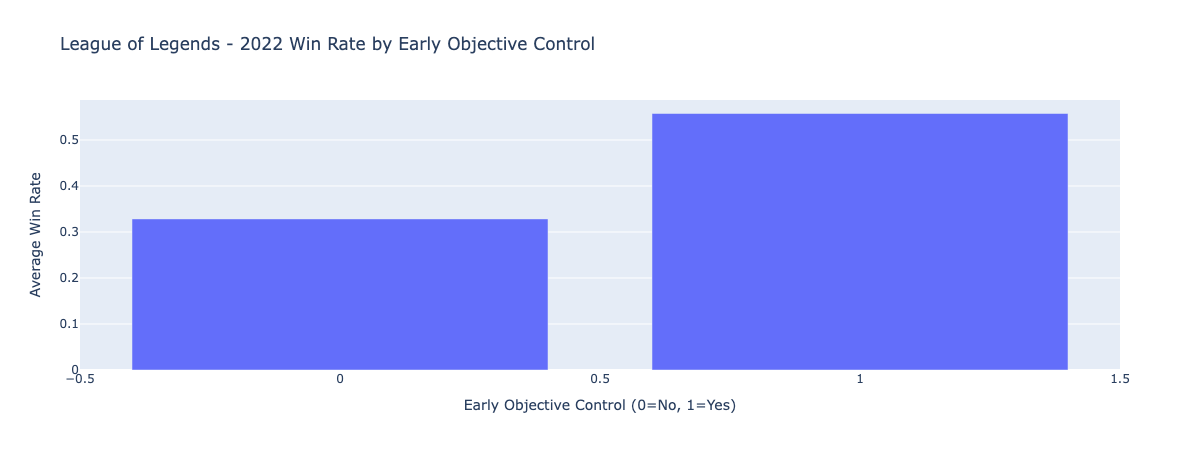
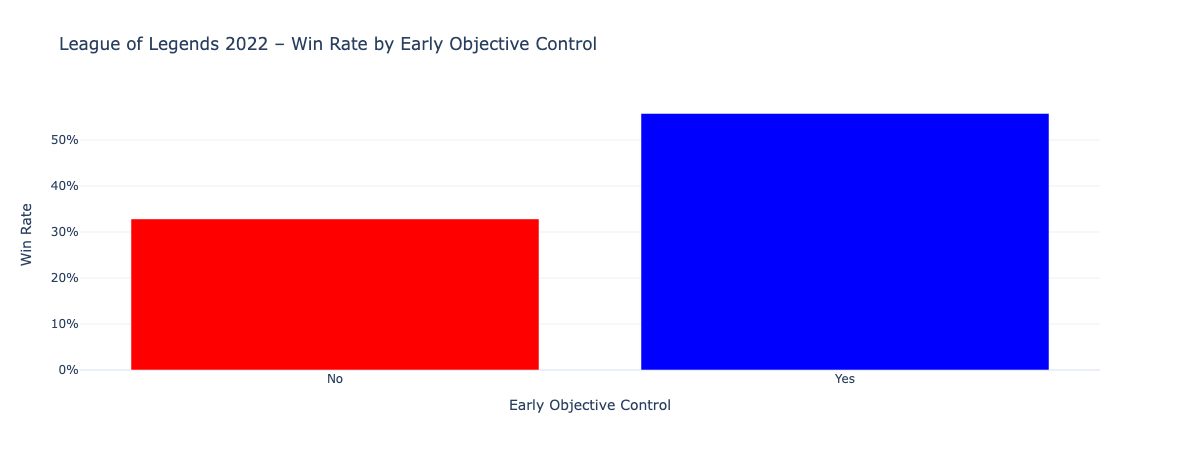
Add EDA content, plots, and notebook updates
Expand README with detailed data cleaning, univariate/bivariate/grouped analysis and embedded visualizations for early objective control. Add several plot images (win_distribution, comparisonofwinrate, distr_obj_control, firstbloodwinrate) and update earlyobjcntrlbar.png. Update template.ipynb to normalize execution counts, tidy outputs/formatting, and add cells to generate markdown snippets for the website. These changes surface analysis results and visuals for documentation and site generation.

diff --git a/README.md b/README.md
@@ -22,7 +22,102 @@ The dataset contains **24,830 team-level observations**, where each row represen
 > - **`killsat10`** — Kills secured at 10 minutes.  
 > - **`side`** — Blue or Red side.
 
-<h2>Data Cleaning and Exploratory Data Analysis</h2>
+## Data Cleaning and Exploratory Data Analysis
+
+### Data Cleaning
+
+The original League of Legends dataset contains match statistics recorded across professional competitions. Each match contains multiple rows corresponding to different entities, including both teams and individual players. Since the goal of this project is to analyze how early-game events affect **match outcomes at the team level**, the dataset was filtered so that each row represents **one team in a single match**.
+
+First, the dataset was filtered to retain only **team-level rows**, removing player-level observations that were not relevant to predicting match outcomes. This ensures that each row corresponds to a team’s performance within a single match.
+
+Next, the response variable **`result`** was converted into a binary classification variable where:
+
+- `1` represents a win  
+- `0` represents a loss  
+
+This conversion allows the dataset to be used directly for classification modeling and hypothesis testing.
+
+An engineered feature called **`early_objective_control`** was created to capture whether a team secured at least one early neutral objective. This variable combines early objective events (such as first dragon, herald, or tower) into a single binary indicator. This feature was created to represent early **macro-level advantages** rather than isolated events.
+
+Some columns contained missing values, particularly **`golddiffat10`** and **`killsat10`**, which represent early-game economic and combat advantages. These missing values were handled using **median imputation**, which preserves the overall distribution of the data while allowing models that cannot handle missing values to train properly.
+
+Additionally, certain columns related to game mechanics that were introduced in later patches (such as **void grubs**) were excluded from analysis. Their missingness was tied to the data generating process rather than random absence, since these objectives were not part of the game during the 2022 season.
+
+After cleaning and feature engineering, the dataset contains **24,830 rows**, where each row represents a team’s perspective in a single professional match.
+
+---
+
+### Head of the Cleaned Dataset
+
+The following table shows the first few rows of the cleaned dataset used in the analysis.
+
+| gameid                | datacompleteness   | url                                         | league   |   year | split   |   playoffs | date                |   game |   patch |   participantid | side   | position   |   playername |   playerid | teamname                 | teamid                                  |   firstPick |   champion | ban1     | ban2         | ban3         | ban4     | ban5    | pick1    | pick2     | pick3    | pick4   | pick5     |   gamelength |   result |   kills |   deaths |   assists |   teamkills |   teamdeaths |   doublekills |   triplekills |   quadrakills |   pentakills |   firstblood |   firstbloodkill |   firstbloodassist |   firstbloodvictim |   team kpm |   ckpm |   firstdragon |   dragons |   opp_dragons |   elementaldrakes |   opp_elementaldrakes |   infernals |   mountains |   clouds |   oceans |   chemtechs |   hextechs |   dragons (type unknown) |   elders |   opp_elders |   firstherald |   heralds |   opp_heralds |   void_grubs |   opp_void_grubs |   firstbaron |   barons |   opp_barons |   atakhans |   opp_atakhans |   firsttower |   towers |   opp_towers |   firstmidtower |   firsttothreetowers |   turretplates |   opp_turretplates |   inhibitors |   opp_inhibitors |   damagetochampions |     dpm |   damageshare |   damagetakenperminute |   damagemitigatedperminute |   damagetotowers |   wardsplaced |    wpm |   wardskilled |   wcpm |   controlwardsbought |   visionscore |   vspm |   totalgold |   earnedgold |   earned gpm |   earnedgoldshare |   goldspent |        gspd |    gpr |   total cs |   minionkills |   monsterkills |   monsterkillsownjungle |   monsterkillsenemyjungle |     cspm |   goldat10 |   xpat10 |   csat10 |   opp_goldat10 |   opp_xpat10 |   opp_csat10 |   golddiffat10 |   xpdiffat10 |   csdiffat10 |   killsat10 |   assistsat10 |   deathsat10 |   opp_killsat10 |   opp_assistsat10 |   opp_deathsat10 |   goldat15 |   xpat15 |   csat15 |   opp_goldat15 |   opp_xpat15 |   opp_csat15 |   golddiffat15 |   xpdiffat15 |   csdiffat15 |   killsat15 |   assistsat15 |   deathsat15 |   opp_killsat15 |   opp_assistsat15 |   opp_deathsat15 |   goldat20 |   xpat20 |   csat20 |   opp_goldat20 |   opp_xpat20 |   opp_csat20 |   golddiffat20 |   xpdiffat20 |   csdiffat20 |   killsat20 |   assistsat20 |   deathsat20 |   opp_killsat20 |   opp_assistsat20 |   opp_deathsat20 |   goldat25 |   xpat25 |   csat25 |   opp_goldat25 |   opp_xpat25 |   opp_csat25 |   golddiffat25 |   xpdiffat25 |   csdiffat25 |   killsat25 |   assistsat25 |   deathsat25 |   opp_killsat25 |   opp_assistsat25 |   opp_deathsat25 |   early_objective_control | result_label   | objective_label   |
+|:----------------------|:-------------------|:--------------------------------------------|:---------|-------:|:--------|-----------:|:--------------------|-------:|--------:|----------------:|:-------|:-----------|-------------:|-----------:|:-------------------------|:----------------------------------------|------------:|-----------:|:---------|:-------------|:-------------|:---------|:--------|:---------|:----------|:---------|:--------|:----------|-------------:|---------:|--------:|---------:|----------:|------------:|-------------:|--------------:|--------------:|--------------:|-------------:|-------------:|-----------------:|-------------------:|-------------------:|-----------:|-------:|--------------:|----------:|--------------:|------------------:|----------------------:|------------:|------------:|---------:|---------:|------------:|-----------:|-------------------------:|---------:|-------------:|--------------:|----------:|--------------:|-------------:|-----------------:|-------------:|---------:|-------------:|-----------:|---------------:|-------------:|---------:|-------------:|----------------:|---------------------:|---------------:|-------------------:|-------------:|-----------------:|--------------------:|--------:|--------------:|-----------------------:|---------------------------:|-----------------:|--------------:|-------:|--------------:|-------:|---------------------:|--------------:|-------:|------------:|-------------:|-------------:|------------------:|------------:|------------:|-------:|-----------:|--------------:|---------------:|------------------------:|--------------------------:|---------:|-----------:|---------:|---------:|---------------:|-------------:|-------------:|---------------:|-------------:|-------------:|------------:|--------------:|-------------:|----------------:|------------------:|-----------------:|-----------:|---------:|---------:|---------------:|-------------:|-------------:|---------------:|-------------:|-------------:|------------:|--------------:|-------------:|----------------:|------------------:|-----------------:|-----------:|---------:|---------:|---------------:|-------------:|-------------:|---------------:|-------------:|-------------:|------------:|--------------:|-------------:|----------------:|------------------:|-----------------:|-----------:|---------:|---------:|---------------:|-------------:|-------------:|---------------:|-------------:|-------------:|------------:|--------------:|-------------:|----------------:|------------------:|-----------------:|--------------------------:|:---------------|:------------------|
+| ESPORTSTMNT01_2690210 | complete           | nan                                         | LCKC     |   2022 | Spring  |          0 | 2022-01-10 07:44:08 |      1 |   12.01 |             100 | Blue   | team       |          nan |        nan | HANJIN BRION Challengers | oe:team:fa3d687a87bcae80362f784a7da571d |           1 |        nan | Karma    | Caitlyn      | Syndra       | Thresh   | Lulu    | Renekton | Samira    | Xin Zhao | LeBlanc | Leona     |         1713 |        0 |       9 |       19 |        19 |           9 |           19 |             0 |             0 |             0 |            0 |            1 |              nan |                nan |                nan |     0.3152 | 0.9807 |             0 |         1 |             3 |                 1 |                     3 |           0 |           0 |        0 |        0 |           0 |          1 |                      nan |        0 |            0 |             1 |         2 |             0 |          nan |              nan |            0 |        0 |            0 |        nan |            nan |            1 |        3 |            6 |               1 |                    1 |              5 |                  0 |            0 |                1 |               56560 | 1981.09 |           nan |                3537.2  |                    2364.73 |             6168 |            74 | 2.5919 |            51 | 1.7863 |                   33 |           197 | 6.9002 |       47070 |        28222 |      988.511 |               nan |       44570 | -0.0283123  |   0.94 |        nan |           680 |            160 |                     nan |                       nan |  29.4221 |      16218 |    18213 |      322 |          14695 |        18076 |          330 |           1523 |          137 |           -8 |           3 |             5 |            0 |               0 |                 0 |                3 |      24806 |    28001 |      487 |          24699 |        29618 |          510 |            107 |        -1617 |          -23 |           5 |            10 |            6 |               6 |                18 |                5 |      31962 |    36874 |      631 |          32906 |        41821 |          715 |           -944 |        -4947 |          -84 |           5 |            10 |            7 |               7 |                22 |                5 |      40224 |    45960 |      767 |          40136 |        49931 |          864 |             88 |        -3971 |          -97 |           6 |            12 |            7 |               7 |                22 |                6 |                         1 | Loss           | Yes               |
+| ESPORTSTMNT01_2690210 | complete           | nan                                         | LCKC     |   2022 | Spring  |          0 | 2022-01-10 07:44:08 |      1 |   12.01 |             200 | Red    | team       |          nan |        nan | Nongshim Esports Academy | oe:team:7c64febcd5ccff13dcd035dc6867a00 |           0 |        nan | Lee Sin  | Twisted Fate | Zoe          | Nautilus | Rell    | Jinx     | Viego     | Gragas   | Viktor  | Alistar   |         1713 |        1 |      19 |        9 |        62 |          19 |            9 |             6 |             0 |             0 |            0 |            0 |              nan |                nan |                nan |     0.6655 | 0.9807 |             1 |         3 |             1 |                 3 |                     1 |           2 |           1 |        0 |        0 |           0 |          0 |                      nan |        0 |            0 |             0 |         0 |             2 |          nan |              nan |            0 |        0 |            0 |        nan |            nan |            0 |        6 |            3 |               0 |                    0 |              0 |                  5 |            1 |                0 |               79912 | 2799.02 |           nan |                3009.67 |                    2872.33 |            13846 |            93 | 3.2574 |            51 | 1.7863 |                   45 |           205 | 7.1804 |       52617 |        33769 |     1182.8   |               nan |       45850 |  0.0283123  |  -0.94 |        nan |           792 |            184 |                     nan |                       nan |  34.1856 |      14695 |    18076 |      330 |          16218 |        18213 |          322 |          -1523 |         -137 |            8 |           0 |             0 |            3 |               3 |                 5 |                0 |      24699 |    29618 |      510 |          24806 |        28001 |          487 |           -107 |         1617 |           23 |           6 |            18 |            5 |               5 |                10 |                6 |      32906 |    41821 |      715 |          31962 |        36874 |          631 |            944 |         4947 |           84 |           7 |            22 |            5 |               5 |                10 |                7 |      40136 |    49931 |      864 |          40224 |        45960 |          767 |            -88 |         3971 |           97 |           7 |            22 |            6 |               6 |                12 |                7 |                         1 | Win            | Yes               |
+| ESPORTSTMNT01_2690219 | complete           | nan                                         | LCKC     |   2022 | Spring  |          0 | 2022-01-10 08:38:24 |      1 |   12.01 |             100 | Blue   | team       |          nan |        nan | T1 Esports Academy       | oe:team:731b7a9fd004cdbe2bcb3da795bce47 |           1 |        nan | Sona     | Jarvan IV    | Caitlyn      | Lulu     | Lucian  | Lee Sin  | Jhin      | Gragas   | Rakan   | Orianna   |         2114 |        0 |       3 |       16 |         7 |           3 |           16 |             0 |             0 |             0 |            0 |            0 |              nan |                nan |                nan |     0.0851 | 0.5393 |             0 |         1 |             4 |                 1 |                     4 |           0 |           1 |        0 |        0 |           0 |          0 |                      nan |        0 |            0 |             1 |         1 |             1 |          nan |              nan |            0 |        0 |            2 |        nan |            nan |            0 |        3 |           11 |               0 |                    0 |              2 |                  3 |            0 |                2 |               59579 | 1690.98 |           nan |                2984.02 |                    3109.61 |             6842 |           119 | 3.3775 |            55 | 1.561  |                   47 |           277 | 7.8619 |       57629 |        34688 |      984.522 |               nan |       53945 | -0.207137   |  -3.23 |        nan |           994 |            215 |                     nan |                       nan |  34.3141 |      14939 |    17462 |      317 |          16558 |        19048 |          344 |          -1619 |        -1586 |          -27 |           1 |             1 |            3 |               3 |                 3 |                1 |      23522 |    28848 |      533 |          25285 |        29754 |          555 |          -1763 |         -906 |          -22 |           1 |             1 |            3 |               3 |                 3 |                1 |      31228 |    38596 |      710 |          36368 |        42069 |          758 |          -5140 |        -3473 |          -48 |           1 |             1 |            5 |               5 |                 6 |                1 |      39335 |    49409 |      895 |          46615 |        57155 |          928 |          -7280 |        -7746 |          -33 |           1 |             1 |            8 |               8 |                13 |                1 |                         1 | Loss           | Yes               |
+| ESPORTSTMNT01_2690219 | complete           | nan                                         | LCKC     |   2022 | Spring  |          0 | 2022-01-10 08:38:24 |      1 |   12.01 |             200 | Red    | team       |          nan |        nan | Liiv SANDBOX Youth       | oe:team:e7a7c6bf58eb268ed3f13aac4158aa8 |           0 |        nan | LeBlanc  | Yuumi        | Twisted Fate | Karma    | Alistar | Renekton | Syndra    | Nidalee  | Leona   | Gangplank |         2114 |        1 |      16 |        3 |        39 |          16 |            3 |             1 |             0 |             0 |            0 |            1 |              nan |                nan |                nan |     0.4541 | 0.5393 |             1 |         4 |             1 |                 4 |                     1 |           0 |           2 |        1 |        0 |           0 |          1 |                      nan |        0 |            0 |             0 |         1 |             1 |          nan |              nan |            1 |        2 |            0 |        nan |            nan |            1 |       11 |            3 |               1 |                    1 |              3 |                  2 |            2 |                0 |               74855 | 2124.55 |           nan |                2745.72 |                    2868.42 |            19944 |           129 | 3.6613 |            70 | 1.9868 |                   65 |           346 | 9.8202 |       71004 |        48063 |     1364.13  |               nan |       66410 |  0.207137   |   3.23 |        nan |          1013 |            244 |                     nan |                       nan |  35.6764 |      16558 |    19048 |      344 |          14939 |        17462 |          317 |           1619 |         1586 |           27 |           3 |             3 |            1 |               1 |                 1 |                3 |      25285 |    29754 |      555 |          23522 |        28848 |          533 |           1763 |          906 |           22 |           3 |             3 |            1 |               1 |                 1 |                3 |      36368 |    42069 |      758 |          31228 |        38596 |          710 |           5140 |         3473 |           48 |           5 |             6 |            1 |               1 |                 1 |                5 |      46615 |    57155 |      928 |          39335 |        49409 |          895 |           7280 |         7746 |           33 |           8 |            13 |            1 |               1 |                 1 |                8 |                         1 | Win            | Yes               |
+| 8401-8401_game_1      | partial            | https://lpl.qq.com/es/stats.shtml?bmid=8401 | LPL      |   2022 | Spring  |          0 | 2022-01-10 09:24:26 |      1 |   12.01 |             100 | Blue   | team       |          nan |        nan | Oh My God                | oe:team:f4c4528c6981e104a11ea7548630c23 |           1 |        nan | Renekton | Lee Sin      | Caitlyn      | Jayce    | Camille | Jinx     | Jarvan IV | Nautilus | Syndra  | Gwen      |         1365 |        1 |      13 |        6 |        35 |          13 |            6 |           nan |           nan |           nan |          nan |            0 |              nan |                nan |                nan |     0.5714 | 0.8352 |             0 |         2 |             1 |               nan |                   nan |         nan |         nan |      nan |      nan |         nan |        nan |                        2 |      nan |          nan |             0 |         2 |             0 |            0 |                0 |          nan |        1 |            0 |        nan |            nan |            1 |        8 |            3 |             nan |                  nan |            nan |                nan |            1 |                0 |               40086 | 1762.02 |           nan |                2263.25 |                     nan    |              nan |            79 | 3.4725 |            33 | 1.4505 |                   32 |           162 | 7.1209 |       45468 |        30167 |     1326.02  |               nan |       36908 | -0.00586225 | nan    |        nan |           nan |            172 |                      98 |                        18 | nan      |        nan |      nan |      nan |            nan |          nan |          nan |            nan |          nan |          nan |         nan |           nan |          nan |             nan |               nan |              nan |        nan |      nan |      nan |            nan |          nan |          nan |            nan |          nan |          nan |         nan |           nan |          nan |             nan |               nan |              nan |        nan |      nan |      nan |            nan |          nan |          nan |            nan |          nan |          nan |         nan |           nan |          nan |             nan |               nan |              nan |        nan |      nan |      nan |            nan |          nan |          nan |            nan |          nan |          nan |         nan |           nan |          nan |             nan |               nan |              nan |                         1 | Win            | Yes               |
+
+---
+
+## Univariate Analysis
+
+<iframe
+  src="assets/win_distribution.html"
+  width="800"
+  height="500"
+  frameborder="0"
+></iframe>
+
+This visualization shows the distribution of match outcomes across the dataset. Since each match contributes one win and one loss at the team level, the distribution is balanced between the two classes. This balance is beneficial for predictive modeling because it prevents classification bias toward one outcome.
+
+---
+
+## Bivariate Analysis
+
+<iframe
+  src="assets/earlyadvcompar.html"
+  width="800"
+  height="500"
+  frameborder="0"
+></iframe>
+
+This plot shows the relationship between **early objective control** and match outcomes. Teams that secure early objectives display a noticeably higher win rate compared to teams that do not. This suggests that early macro advantages may play a meaningful role in determining match outcomes.
+
+---
+
+## Grouped Analysis
+
+The following grouped table summarizes win rates based on early objective control.
+
+|   patch |        0 |        1 |
+|--------:|---------:|---------:|
+|   12.01 | 0.236559 | 0.558566 |
+|   12.02 | 0.363328 | 0.559322 |
+|   12.03 | 0.246429 | 0.550141 |
+|   12.04 | 0.40249  | 0.556901 |
+|   12.05 | 0.310606 | 0.551921 |
+|   12.06 | 0.288136 | 0.540193 |
+|   12.07 | 0.206897 | 0.562963 |
+|   12.08 | 0.174603 | 0.568562 |
+|   12.09 | 0.210526 | 0.556507 |
+|   12.1  | 0.243697 | 0.554856 |
+|   12.11 | 0.327652 | 0.567407 |
+|   12.12 | 0.346041 | 0.5525   |
+|   12.13 | 0.380303 | 0.559488 |
+|   12.14 | 0.307947 | 0.565463 |
+|   12.15 | 0.195122 | 0.566138 |
+|   12.16 | 0.361789 | 0.57173  |
+|   12.17 | 0.166667 | 0.547619 |
+|   12.18 | 0.190751 | 0.55991  |
+|   12.19 | 0.185714 | 0.567901 |
+|   12.2  | 0.290323 | 0.542763 |
+|   12.21 | 0.225806 | 0.550296 |
+|   12.23 | 0.5      | 0.5      |
+
+This grouped summary reinforces the trend observed in the visualization. Teams that secure early objectives win a substantially larger proportion of matches compared to teams that do not, suggesting that early objective control may be an important indicator of overall match success.
+
 
 <h2>Assessment of Missingness</h2>
 
